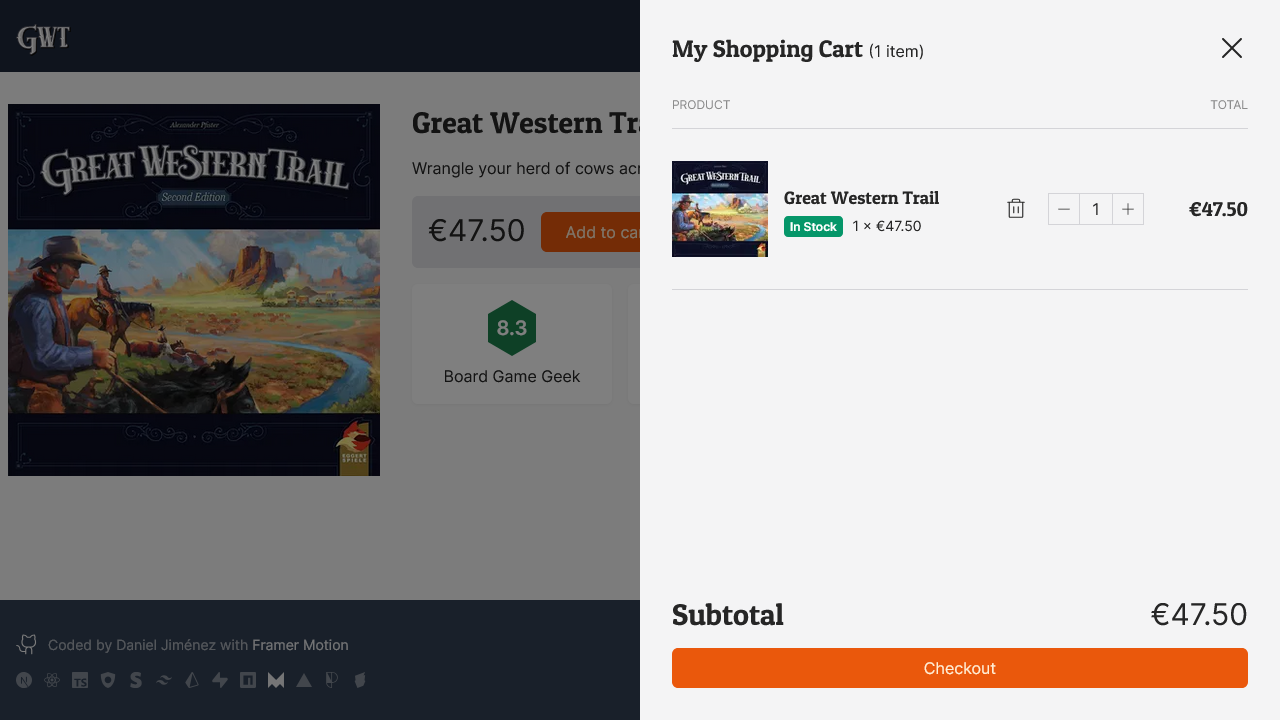
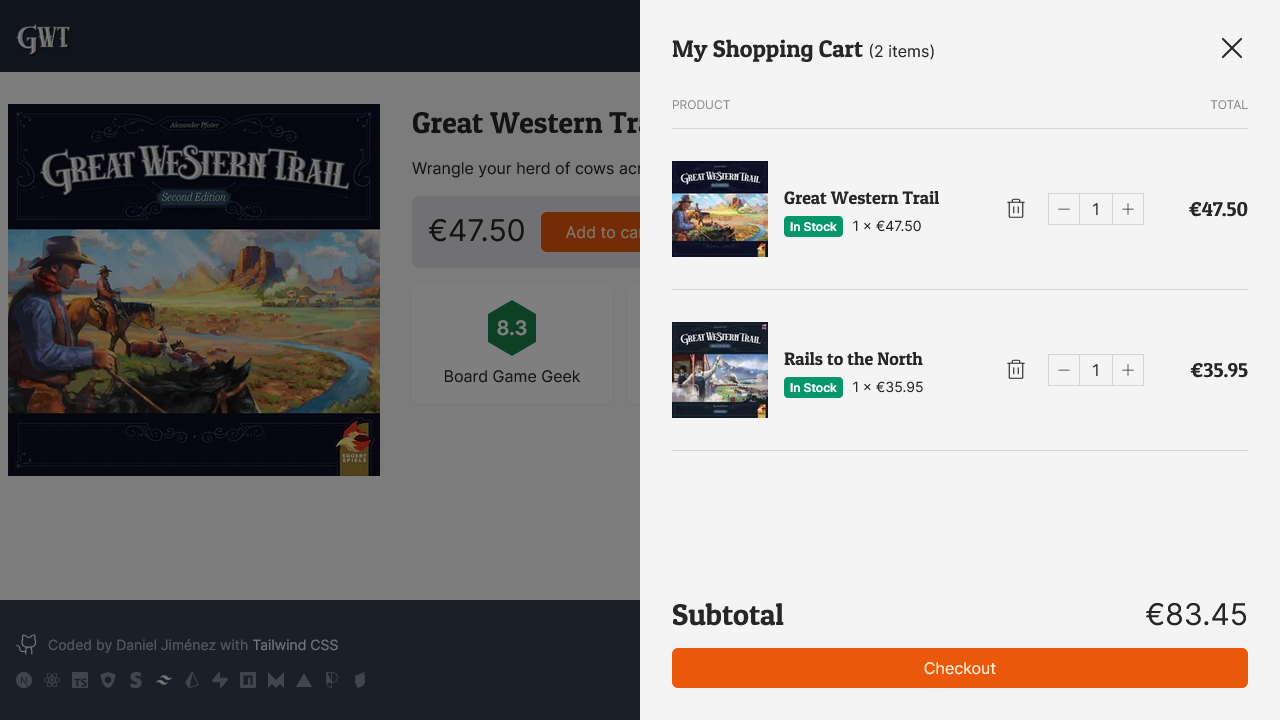
updated shields and images

diff --git a/readme.md b/readme.md
@@ -14,27 +14,35 @@ I'm an aspiring web developer based in Madrid, Spain. I'm currently looking for 
 ### Other tools I've used
 
 [![framermotion](https://img.shields.io/badge/-framer%20motion-0055FF?logo=framer&logoColor=white&style=for-the-badge)](https://www.framer.com/motion/)
+[![tailwind](https://img.shields.io/badge/-tailwind-06B6D4?logo=tailwindcss&logoColor=white&style=for-the-badge)](https://tailwindcss.com/)
 [![reactrouter](https://img.shields.io/badge/-react%20router-ca4245?logo=reactrouter&logoColor=white&style=for-the-badge)](https://reactrouter.com/en/main)
-[![firebase](https://img.shields.io/badge/-firebase-ffca28?logo=firebase&logoColor=black&style=for-the-badge)](https://firebase.google.com/)
 [![mongodb](https://img.shields.io/badge/-mongodb-47a248?logo=mongodb&logoColor=white&style=for-the-badge)](https://www.mongodb.com/)
 [![mongoose](https://img.shields.io/badge/-mongoose-880000?logo=mongoose&logoColor=white&style=for-the-badge)](https://mongoosejs.com/)
+[![prisma](https://img.shields.io/badge/-prisma-2D3748?logo=prisma&logoColor=fff&style=for-the-badge)](https://www.prisma.io/)
 [![supabase](https://img.shields.io/badge/-supabase-3FCF8E?logo=supabase&logoColor=fff&style=for-the-badge)](https://supabase.com/)
+[![firebase](https://img.shields.io/badge/-firebase-ffca28?logo=firebase&logoColor=black&style=for-the-badge)](https://firebase.google.com/)
+[![cloudinary](https://img.shields.io/badge/-cloudinary-3448C5?logo=cloudinary&logoColor=fff&style=for-the-badge)](https://supabase.com/)
 [![sass](https://img.shields.io/badge/-sass-cc6699?logo=sass&logoColor=white&style=for-the-badge)](https://sass-lang.com/)
-[![bem](https://img.shields.io/badge/-bem-000?logo=bem&logoColor=fff&style=for-the-badge)](https://getbem.com/)
 [![styledcomponents](https://img.shields.io/badge/-styled%20components-db7093?logo=styledcomponents&logoColor=white&style=for-the-badge)](https://styled-components.com/)
-[![vite](https://img.shields.io/badge/-vite-646cff?logo=vite&logoColor=white&style=for-the-badge)](https://vitejs.dev/)
-[![npm](https://img.shields.io/badge/-npm-CB3837?logo=npm&logoColor=white&style=for-the-badge)](https://www.npmjs.com/)
-[![reacthookform](https://img.shields.io/badge/-react%20hook%20form-ec5990?logo=reacthookform&logoColor=white&style=for-the-badge)](https://react-hook-form.com/)
 [![cssmodules](https://img.shields.io/badge/-css%20modules-000?logo=cssmodules&logoColor=fff&style=for-the-badge)](https://github.com/css-modules)
 [![node.js](https://img.shields.io/badge/-node.js-339933?logo=node.js&logoColor=white&style=for-the-badge)](https://nodejs.org/en)
 [![express](https://img.shields.io/badge/-express-000?logo=express&logoColor=fff&style=for-the-badge)](https://expressjs.com/)
+[![stripe](https://img.shields.io/badge/-stripe-008CDD?logo=stripe&logoColor=fff&style=for-the-badge)](https://stripe.com/)
+[![bem](https://img.shields.io/badge/-bem-000?logo=bem&logoColor=fff&style=for-the-badge)](https://getbem.com/)
+[![vite](https://img.shields.io/badge/-vite-646cff?logo=vite&logoColor=white&style=for-the-badge)](https://vitejs.dev/)
+[![npm](https://img.shields.io/badge/-npm-CB3837?logo=npm&logoColor=white&style=for-the-badge)](https://www.npmjs.com/)
+[![reacthookform](https://img.shields.io/badge/-react%20hook%20form-ec5990?logo=reacthookform&logoColor=white&style=for-the-badge)](https://react-hook-form.com/)
 [![prettier](https://img.shields.io/badge/-prettier-F7B93E?logo=prettier&logoColor=black&style=for-the-badge)](https://prettier.io/)
+[![eslint](https://img.shields.io/badge/-eslint-4B32C3?logo=eslint&logoColor=white&style=for-the-badge)](https://prettier.io/)
 [![jwt](https://img.shields.io/badge/-jwt-000000?logo=jsonwebtokens&logoColor=white&style=for-the-badge)](https://jwt.io/)
 [![zod](https://img.shields.io/badge/-zod-3E67B1?logo=zod&logoColor=fff&style=for-the-badge)](https://zod.dev/)
+[![maplibre](https://img.shields.io/badge/-maplibre-396CB2?logo=maplibre&logoColor=white&style=for-the-badge)](https://maplibre.org/)
 [![fontawesome](https://img.shields.io/badge/-font%20awesome-528DD7?logo=fontawesome&logoColor=white&style=for-the-badge)](https://fontawesome.com/)
-[![visualstudiocode](https://img.shields.io/badge/-vs%20code-007ACC?logo=visualstudiocode&logoColor=fff&style=for-the-badge)](https://code.visualstudio.com/)
 [![render](https://img.shields.io/badge/-render-46e3b7?logo=render&logoColor=white&style=for-the-badge)](https://render.com/)
+[![vercel](https://img.shields.io/badge/-vercel-000?logo=vercel&logoColor=white&style=for-the-badge)](https://render.com/)
+[![git](https://img.shields.io/badge/-git-F05032?logo=git&logoColor=fff&style=for-the-badge)](https://git-scm.com/)
 [![github](https://img.shields.io/badge/-github-181717?logo=github&logoColor=fff&style=for-the-badge)](https://github.com/)
+[![visualstudiocode](https://img.shields.io/badge/-vs%20code-007ACC?logo=visualstudiocode&logoColor=fff&style=for-the-badge)](https://code.visualstudio.com/)
 
 ## Latest projects
 
@@ -65,6 +73,7 @@ Online store made with Next.js, TypeScript, Stripe, and Supabase.
 - 📄 Code: https://github.com/djimenezweb/next-stripe-ecommerce
 
 [![GWT Store](./images/gwt1.png)](https://next-stripe-ecommerce-test.vercel.app/)
+[![GWT Store](./images/gwt2.png)](https://next-stripe-ecommerce-test.vercel.app/)
 
 ### Bidder
 
